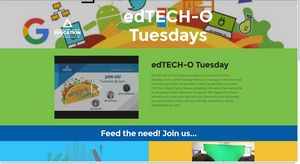
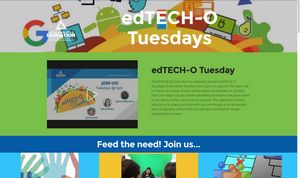
updates

diff --git a/assets/smooth-scroll/smooth-scroll.js b/assets/smooth-scroll/smooth-scroll.js
@@ -1,5 +1,5 @@
 //
-// SmoothScroll for websites v1.4.5 (Balazs Galambosi)
+// SmoothScroll for websites v1.4.9 (Balazs Galambosi)
 // http://www.smoothscroll.net/
 //
 // Licensed under the terms of the MIT license.
@@ -12,17 +12,18 @@
 // extension for browsers or native application
 // without getting a written permission first.
 //
-(function(){function C(){if(!D&&document.body){D=!0;var a=document.body,b=document.documentElement,d=window.innerHeight,c=a.scrollHeight;k=0<=document.compatMode.indexOf("CSS")?b:a;m=a;f.keyboardSupport&&window.addEventListener("keydown",J,!1);if(top!=self)u=!0;else if(Y&&c>d&&(a.offsetHeight<=d||b.offsetHeight<=d)){var e=document.createElement("div");e.style.cssText="position:absolute; z-index:-10000; top:0; left:0; right:0; height:"+k.scrollHeight+"px";document.body.appendChild(e);var h;v=function(){h||
-(h=setTimeout(function(){e.style.height="0";e.style.height=k.scrollHeight+"px";h=null},500))};setTimeout(v,10);window.addEventListener("resize",v,!1);A=new Z(v);A.observe(a,{attributes:!0,childList:!0,characterData:!1});k.offsetHeight<=d&&(d=document.createElement("div"),d.style.clear="both",a.appendChild(d))}f.fixedBackground||(a.style.backgroundAttachment="scroll",b.style.backgroundAttachment="scroll")}}function K(a,b,d){aa(b,d);if(1!=f.accelerationMax){var c=Date.now()-E;c<f.accelerationDelta&&
-(c=(1+50/c)/2,1<c&&(c=Math.min(c,f.accelerationMax),b*=c,d*=c));E=Date.now()}t.push({x:b,y:d,lastX:0>b?.99:-.99,lastY:0>d?.99:-.99,start:Date.now()});if(!F){var e=a===document.body,h=function(c){c=Date.now();for(var g=0,k=0,l=0;l<t.length;l++){var n=t[l],p=c-n.start,m=p>=f.animationTime,q=m?1:p/f.animationTime;f.pulseAlgorithm&&(p=q,1<=p?q=1:0>=p?q=0:(1==f.pulseNormalize&&(f.pulseNormalize/=L(1)),q=L(p)));p=n.x*q-n.lastX>>0;q=n.y*q-n.lastY>>0;g+=p;k+=q;n.lastX+=p;n.lastY+=q;m&&(t.splice(l,1),l--)}e?
-window.scrollBy(g,k):(g&&(a.scrollLeft+=g),k&&(a.scrollTop+=k));b||d||(t=[]);t.length?M(h,a,1E3/f.frameRate+1):F=!1};M(h,a,0);F=!0}}function N(a){D||C();var b=a.target;if(a.defaultPrevented||a.ctrlKey||r(m,"embed")||r(b,"embed")&&/\.pdf/i.test(b.src)||r(m,"object")||b.shadowRoot)return!0;var d=-a.wheelDeltaX||a.deltaX||0,c=-a.wheelDeltaY||a.deltaY||0;ba&&(a.wheelDeltaX&&w(a.wheelDeltaX,120)&&(d=-120*(a.wheelDeltaX/Math.abs(a.wheelDeltaX))),a.wheelDeltaY&&w(a.wheelDeltaY,120)&&(c=-120*(a.wheelDeltaY/
-Math.abs(a.wheelDeltaY))));d||c||(c=-a.wheelDelta||0);1===a.deltaMode&&(d*=40,c*=40);b=O(b);if(!b)return u&&G?(Object.defineProperty(a,"target",{value:window.frameElement}),a=new a.constructor(a.type,a),parent.dispatchEvent(a)):!0;if(!f.touchpadSupport&&ca(c))return!0;1.2<Math.abs(d)&&(d*=f.stepSize/120);1.2<Math.abs(c)&&(c*=f.stepSize/120);K(b,d,c);a.preventDefault();P()}function J(a){var b=a.target,d=a.ctrlKey||a.altKey||a.metaKey||a.shiftKey&&a.keyCode!==h.spacebar;document.body.contains(m)||(m=
-document.activeElement);var c=/^(textarea|select|embed|object)$/i,e=/^(button|submit|radio|checkbox|file|color|image)$/i;if(!(c=a.defaultPrevented||c.test(b.nodeName)||r(b,"input")&&!e.test(b.type)||r(m,"video"))){var c=a.target,g=!1;if(-1!=document.URL.indexOf("www.youtube.com/watch")){do if(g=c.classList&&c.classList.contains("html5-video-controls"))break;while(c=c.parentNode)}c=g}if(c||b.isContentEditable||d||(r(b,"button")||r(b,"input")&&e.test(b.type))&&a.keyCode===h.spacebar||r(b,"input")&&
-"radio"==b.type&&da[a.keyCode])return!0;c=b=0;d=O(m);if(!d)return u&&G?parent.keydown(a):!0;e=d.clientHeight;d==document.body&&(e=window.innerHeight);switch(a.keyCode){case h.up:c=-f.arrowScroll;break;case h.down:c=f.arrowScroll;break;case h.spacebar:c=a.shiftKey?1:-1;c=-c*e*.9;break;case h.pageup:c=.9*-e;break;case h.pagedown:c=.9*e;break;case h.home:c=-d.scrollTop;break;case h.end:e=d.scrollHeight-d.scrollTop-e;c=0<e?e+10:0;break;case h.left:b=-f.arrowScroll;break;case h.right:b=f.arrowScroll;break;
-default:return!0}K(d,b,c);a.preventDefault();P()}function Q(a){m=a.target}function P(){clearTimeout(R);R=setInterval(function(){H={}},1E3)}function I(a,b){for(var d=a.length;d--;)H[S(a[d])]=b;return b}function O(a){var b=[],d=document.body,c=k.scrollHeight;do{var e=H[S(a)];if(e)return I(b,e);b.push(a);if(c===a.scrollHeight){if(e=T(k)&&T(d)||U(k),u&&k.clientHeight+10<k.scrollHeight||!u&&e)return I(b,ea())}else if(a.clientHeight+10<a.scrollHeight&&U(a))return I(b,a)}while(a=a.parentElement)}function T(a){return"hidden"!==
-getComputedStyle(a,"").getPropertyValue("overflow-y")}function U(a){a=getComputedStyle(a,"").getPropertyValue("overflow-y");return"scroll"===a||"auto"===a}function r(a,b){return(a.nodeName||"").toLowerCase()===b.toLowerCase()}function aa(a,b){a=0<a?1:-1;b=0<b?1:-1;if(B.x!==a||B.y!==b)B.x=a,B.y=b,t=[],E=0}function ca(a){if(a)return l.length||(l=[a,a,a]),a=Math.abs(a),l.push(a),l.shift(),clearTimeout(V),V=setTimeout(function(){try{localStorage.SS_deltaBuffer=l.join(",")}catch(a){}},1E3),!W(120)&&!W(100)}
-function w(a,b){return Math.floor(a/b)==a/b}function W(a){return w(l[0],a)&&w(l[1],a)&&w(l[2],a)}function L(a){var b;a*=f.pulseScale;1>a?b=a-(1-Math.exp(-a)):(b=Math.exp(-1),--a,a=1-Math.exp(-a),b+=a*(1-b));return b*f.pulseNormalize}function x(a){for(var b in a)X.hasOwnProperty(b)&&(f[b]=a[b])}var X={frameRate:150,animationTime:400,stepSize:100,pulseAlgorithm:!0,pulseScale:4,pulseNormalize:1,accelerationDelta:50,accelerationMax:3,keyboardSupport:!0,arrowScroll:50,touchpadSupport:!1,fixedBackground:!0,
-excluded:""},f=X,u=!1,B={x:0,y:0},D=!1,k=document.documentElement,m,A,v,l=[],ba=/^Mac/.test(navigator.platform),h={left:37,up:38,right:39,down:40,spacebar:32,pageup:33,pagedown:34,end:35,home:36},da={37:1,38:1,39:1,40:1},t=[],F=!1,E=Date.now(),S=function(){var a=0;return function(b){return b.uniqueID||(b.uniqueID=a++)}}(),H={},R,V;if(window.localStorage&&localStorage.SS_deltaBuffer)try{l=localStorage.SS_deltaBuffer.split(",")}catch(ha){}var M=function(){return window.requestAnimationFrame||window.webkitRequestAnimationFrame||
-window.mozRequestAnimationFrame||function(a,b,d){window.setTimeout(a,d||1E3/60)}}(),Z=window.MutationObserver||window.WebKitMutationObserver||window.MozMutationObserver,ea=function(){var a;return function(){if(!a){var b=document.createElement("div");b.style.cssText="height:10000px;width:1px;";document.body.appendChild(b);var d=document.body.scrollTop;window.scrollBy(0,3);a=document.body.scrollTop!=d?document.body:document.documentElement;window.scrollBy(0,-3);document.body.removeChild(b)}return a}}(),
-g=window.navigator.userAgent,y=/Edge/.test(g),G=/chrome/i.test(g)&&!y,y=/safari/i.test(g)&&!y,fa=/mobile/i.test(g),ga=/Windows NT 6.1/i.test(g)&&/rv:11/i.test(g),Y=y&&(/Version\/8/i.test(g)||/Version\/9/i.test(g)),g=(G||y||ga)&&!fa,z;"onwheel"in document.createElement("div")?z="wheel":"onmousewheel"in document.createElement("div")&&(z="mousewheel");z&&g&&(window.addEventListener(z,N,!1),window.addEventListener("mousedown",Q,!1),window.addEventListener("load",C,!1));x.destroy=function(){A&&A.disconnect();
-window.removeEventListener(z,N,!1);window.removeEventListener("mousedown",Q,!1);window.removeEventListener("keydown",J,!1);window.removeEventListener("resize",v,!1);window.removeEventListener("load",C,!1)};window.SmoothScrollOptions&&x(window.SmoothScrollOptions);"function"===typeof define&&define.amd?define(function(){return x}):"object"==typeof exports?module.exports=x:window.SmoothScroll=x})();
+(function(){function C(){if(!D&&document.body){D=!0;var a=document.body,b=document.documentElement,d=window.innerHeight,c=a.scrollHeight;k=0<=document.compatMode.indexOf("CSS")?b:a;m=a;f.keyboardSupport&&window.addEventListener("keydown",M,!1);if(top!=self)v=!0;else if(ca&&c>d&&(a.offsetHeight<=d||b.offsetHeight<=d)){var e=document.createElement("div");e.style.cssText="position:absolute; z-index:-10000; top:0; left:0; right:0; height:"+k.scrollHeight+"px";document.body.appendChild(e);var h;w=function(){h||
+(h=setTimeout(function(){e.style.height="0";e.style.height=k.scrollHeight+"px";h=null},500))};setTimeout(w,10);window.addEventListener("resize",w,!1);z=new da(w);z.observe(a,{attributes:!0,childList:!0,characterData:!1});k.offsetHeight<=d&&(d=document.createElement("div"),d.style.clear="both",a.appendChild(d))}f.fixedBackground||(a.style.backgroundAttachment="scroll",b.style.backgroundAttachment="scroll")}}function N(a,b,d){ea(b,d);if(1!=f.accelerationMax){var c=Date.now()-E;c<f.accelerationDelta&&
+(c=(1+50/c)/2,1<c&&(c=Math.min(c,f.accelerationMax),b*=c,d*=c));E=Date.now()}t.push({x:b,y:d,lastX:0>b?.99:-.99,lastY:0>d?.99:-.99,start:Date.now()});if(!F){var c=O(),e=a===c||a===document.body;null==a.$scrollBehavior&&fa(a)&&(a.$scrollBehavior=a.style.scrollBehavior,a.style.scrollBehavior="auto");var h=function(c){c=Date.now();for(var g=0,k=0,l=0;l<t.length;l++){var n=t[l],p=c-n.start,m=p>=f.animationTime,q=m?1:p/f.animationTime;f.pulseAlgorithm&&(p=q,1<=p?q=1:0>=p?q=0:(1==f.pulseNormalize&&(f.pulseNormalize/=
+P(1)),q=P(p)));p=n.x*q-n.lastX>>0;q=n.y*q-n.lastY>>0;g+=p;k+=q;n.lastX+=p;n.lastY+=q;m&&(t.splice(l,1),l--)}e?window.scrollBy(g,k):(g&&(a.scrollLeft+=g),k&&(a.scrollTop+=k));b||d||(t=[]);t.length?Q(h,a,1E3/f.frameRate+1):(F=!1,null!=a.$scrollBehavior&&(a.style.scrollBehavior=a.$scrollBehavior,a.$scrollBehavior=null))};Q(h,a,0);F=!0}}function R(a){D||C();var b=a.target;if(a.defaultPrevented||a.ctrlKey||r(m,"embed")||r(b,"embed")&&/\.pdf/i.test(b.src)||r(m,"object")||b.shadowRoot)return!0;var d=-a.wheelDeltaX||
+a.deltaX||0,c=-a.wheelDeltaY||a.deltaY||0;ga&&(a.wheelDeltaX&&x(a.wheelDeltaX,120)&&(d=-120*(a.wheelDeltaX/Math.abs(a.wheelDeltaX))),a.wheelDeltaY&&x(a.wheelDeltaY,120)&&(c=-120*(a.wheelDeltaY/Math.abs(a.wheelDeltaY))));d||c||(c=-a.wheelDelta||0);1===a.deltaMode&&(d*=40,c*=40);b=S(b);if(!b)return v&&G?(Object.defineProperty(a,"target",{value:window.frameElement}),parent.wheel(a)):!0;if(ha(c))return!0;1.2<Math.abs(d)&&(d*=f.stepSize/120);1.2<Math.abs(c)&&(c*=f.stepSize/120);N(b,d,c);a.preventDefault();
+T()}function M(a){var b=a.target,d=a.ctrlKey||a.altKey||a.metaKey||a.shiftKey&&a.keyCode!==h.spacebar;document.body.contains(m)||(m=document.activeElement);var c=/^(textarea|select|embed|object)$/i,e=/^(button|submit|radio|checkbox|file|color|image)$/i;if(!(c=a.defaultPrevented||c.test(b.nodeName)||r(b,"input")&&!e.test(b.type)||r(m,"video"))){var c=a.target,g=!1;if(-1!=document.URL.indexOf("www.youtube.com/watch")){do if(g=c.classList&&c.classList.contains("html5-video-controls"))break;while(c=c.parentNode)
+}c=g}if(c||b.isContentEditable||d||(r(b,"button")||r(b,"input")&&e.test(b.type))&&a.keyCode===h.spacebar||r(b,"input")&&"radio"==b.type&&ia[a.keyCode])return!0;c=b=0;d=S(m);if(!d)return v&&G?parent.keydown(a):!0;e=d.clientHeight;d==document.body&&(e=window.innerHeight);switch(a.keyCode){case h.up:c=-f.arrowScroll;break;case h.down:c=f.arrowScroll;break;case h.spacebar:c=a.shiftKey?1:-1;c=-c*e*.9;break;case h.pageup:c=.9*-e;break;case h.pagedown:c=.9*e;break;case h.home:d==document.body&&document.scrollingElement&&
+(d=document.scrollingElement);c=-d.scrollTop;break;case h.end:e=d.scrollHeight-d.scrollTop-e;c=0<e?e+10:0;break;case h.left:b=-f.arrowScroll;break;case h.right:b=f.arrowScroll;break;default:return!0}N(d,b,c);a.preventDefault();T()}function U(a){m=a.target}function T(){clearTimeout(V);V=setInterval(function(){W=H=A={}},1E3)}function I(a,b,d){d=d?W:H;for(var c=a.length;c--;)d[J(a[c])]=b;return b}function S(a){var b=[],d=document.body,c=k.scrollHeight;do{var e=H[J(a)];if(e)return I(b,e);b.push(a);if(c===
+a.scrollHeight){if(e=X(k)&&X(d)||Y(k),v&&k.clientHeight+10<k.scrollHeight||!v&&e)return I(b,O())}else if(a.clientHeight+10<a.scrollHeight&&Y(a))return I(b,a)}while(a=a.parentElement)}function X(a){return"hidden"!==getComputedStyle(a,"").getPropertyValue("overflow-y")}function Y(a){a=getComputedStyle(a,"").getPropertyValue("overflow-y");return"scroll"===a||"auto"===a}function fa(a){var b=J(a);null==A[b]&&(a=getComputedStyle(a,"")["scroll-behavior"],A[b]="smooth"==a);return A[b]}function r(a,b){return a&&
+(a.nodeName||"").toLowerCase()===b.toLowerCase()}function ea(a,b){a=0<a?1:-1;b=0<b?1:-1;if(B.x!==a||B.y!==b)B.x=a,B.y=b,t=[],E=0}function ha(a){if(a)return l.length||(l=[a,a,a]),a=Math.abs(a),l.push(a),l.shift(),clearTimeout(Z),Z=setTimeout(function(){try{localStorage.SS_deltaBuffer=l.join(",")}catch(a){}},1E3),a=120<a&&K(a),!K(120)&&!K(100)&&!a}function x(a,b){return Math.floor(a/b)==a/b}function K(a){return x(l[0],a)&&x(l[1],a)&&x(l[2],a)}function P(a){var b;a*=f.pulseScale;1>a?b=a-(1-Math.exp(-a)):
+(b=Math.exp(-1),--a,a=1-Math.exp(-a),b+=a*(1-b));return b*f.pulseNormalize}function y(a){for(var b in a)aa.hasOwnProperty(b)&&(f[b]=a[b])}var aa={frameRate:150,animationTime:400,stepSize:100,pulseAlgorithm:!0,pulseScale:4,pulseNormalize:1,accelerationDelta:50,accelerationMax:3,keyboardSupport:!0,arrowScroll:50,fixedBackground:!0,excluded:""},f=aa,v=!1,B={x:0,y:0},D=!1,k=document.documentElement,m,z,w,l=[],Z,ga=/^Mac/.test(navigator.platform),h={left:37,up:38,right:39,down:40,spacebar:32,pageup:33,
+pagedown:34,end:35,home:36},ia={37:1,38:1,39:1,40:1},t=[],F=!1,E=Date.now(),J=function(){var a=0;return function(b){return b.uniqueID||(b.uniqueID=a++)}}(),W={},H={},V,A={};if(window.localStorage&&localStorage.SS_deltaBuffer)try{l=localStorage.SS_deltaBuffer.split(",")}catch(la){}var Q=function(){return window.requestAnimationFrame||window.webkitRequestAnimationFrame||window.mozRequestAnimationFrame||function(a,b,d){window.setTimeout(a,d||1E3/60)}}(),da=window.MutationObserver||window.WebKitMutationObserver||
+window.MozMutationObserver,O=function(){var a=document.scrollingElement;return function(){if(!a){var b=document.createElement("div");b.style.cssText="height:10000px;width:1px;";document.body.appendChild(b);var d=document.body.scrollTop;window.scrollBy(0,3);a=document.body.scrollTop!=d?document.body:document.documentElement;window.scrollBy(0,-3);document.body.removeChild(b)}return a}}(),g=window.navigator.userAgent,u=/Edge/.test(g),G=/chrome/i.test(g)&&!u,u=/safari/i.test(g)&&!u,ja=/mobile/i.test(g),
+ka=/Windows NT 6.1/i.test(g)&&/rv:11/i.test(g),ca=u&&(/Version\/8/i.test(g)||/Version\/9/i.test(g)),g=(G||u||ka)&&!ja,ba=!1;try{window.addEventListener("test",null,Object.defineProperty({},"passive",{get:function(){ba=!0}}))}catch(ma){}var u=ba?{passive:!1}:!1,L="onwheel"in document.createElement("div")?"wheel":"mousewheel";L&&g&&(window.addEventListener(L,R,u||!1),window.addEventListener("mousedown",U,!1),window.addEventListener("load",C,!1));y.destroy=function(){z&&z.disconnect();window.removeEventListener(L,
+R,!1);window.removeEventListener("mousedown",U,!1);window.removeEventListener("keydown",M,!1);window.removeEventListener("resize",w,!1);window.removeEventListener("load",C,!1)};window.SmoothScrollOptions&&y(window.SmoothScrollOptions);"function"===typeof define&&define.amd?define(function(){return y}):"object"==typeof exports?module.exports=y:window.SmoothScroll=y})();

diff --git a/index.html b/index.html
@@ -17,7 +17,7 @@
   <link rel="stylesheet" href="assets/tether/tether.min.css">
   <link rel="stylesheet" href="assets/bootstrap/css/bootstrap.min.css">
   <link rel="stylesheet" href="assets/socicon/css/styles.css">
-  <link rel="stylesheet" href="assets/animate.css/animate.min.css">
+  <link rel="stylesheet" href="assets/animatecss/animate.min.css">
   <link rel="stylesheet" href="assets/dropdown/css/style.css">
   <link rel="stylesheet" href="assets/theme/css/style.css">
   <link rel="stylesheet" href="assets/mobirise-gallery/style.css">
@@ -42,7 +42,7 @@
 <!-- /Google Analytics -->
 
 
-  <section id="ext_menu-3" data-rv-view="0">
+  <section id="ext_menu-3" data-rv-view="177">
 
     <nav class="navbar navbar-dropdown transparent navbar-fixed-top bg-color">
         <div class="container">
@@ -68,7 +68,7 @@
 
 </section>
 
-<section class="engine"><a href="https://mobirise.info/n">simple web templates</a></section><section class="mbr-section mbr-after-navbar" id="msg-box5-26" data-rv-view="2" style="background-image: url(assets/images/taco2-1-812x607.jpeg); padding-top: 40px; padding-bottom: 0px;">
+<section class="engine"><a href="https://mobirise.info/p">site templates free download</a></section><section class="mbr-section mbr-after-navbar" id="msg-box5-26" data-rv-view="179" style="background-image: url(assets/images/taco2-1-812x607.jpeg); padding-top: 40px; padding-bottom: 0px;">
 
     <div class="mbr-overlay" style="opacity: 0.2; background-color: rgb(0, 0, 0);">
     </div>
@@ -99,7 +99,7 @@
 
 </section>
 
-<section class="mbr-section" id="msg-box4-2j" data-rv-view="5" style="background-color: rgb(122, 191, 73); padding-top: 40px; padding-bottom: 40px;">
+<section class="mbr-section" id="msg-box4-2j" data-rv-view="182" style="background-color: rgb(122, 191, 73); padding-top: 40px; padding-bottom: 40px;">
 
     
     <div class="container">
@@ -133,7 +133,7 @@
 
 </section>
 
-<section class="mbr-section mbr-section__container article" id="header3-2n" data-rv-view="8" style="background-color: rgb(5, 91, 166); padding-top: 20px; padding-bottom: 20px;">
+<section class="mbr-section mbr-section__container article" id="header3-2n" data-rv-view="185" style="background-color: rgb(5, 91, 166); padding-top: 20px; padding-bottom: 20px;">
     <div class="container">
         <div class="row">
             <div class="col-xs-12">
@@ -144,49 +144,60 @@
     </div>
 </section>
 
-<section class="mbr-cards mbr-section mbr-section-nopadding" id="features1-j" data-rv-view="10" style="background-color: rgb(242, 194, 48);">
+<section class="mbr-cards mbr-section mbr-section-nopadding" id="features1-j" data-rv-view="187" style="background-color: rgb(242, 194, 48);">
 
         
 
     <div class="mbr-cards-row row striped">
 
-        <div class="mbr-cards-col col-xs-12 col-lg-6" style="padding-top: 0px; padding-bottom: 40px;">
+        <div class="mbr-cards-col col-xs-12 col-lg-4" style="padding-top: 0px; padding-bottom: 0px;">
             <div class="container">
                 <div class="card cart-block">
-                    <div class="card-img"><img src="assets/images/hands-1-400x400.png" class="card-img-top" alt="many hands raised in different colors"></div>
+                    <div class="card-img"><img src="assets/images/hands-2-396x359.jpeg" class="card-img-top" alt="many hands raised in different colors"></div>
                     <div class="card-block">
-                        <h4 class="card-title"><div>Sign-up to Present on edTECH-O Tuesday!</div></h4>
+                        <h4 class="card-title"><div>Sign-up to Present on </div><div>edTECH-O Tuesday!</div></h4>
                         
-                        <p class="card-text">Being a presenter is easy!  The Ed Tech team will provide you with a basic presentation template, the Zoom link for your session, and serve as your co-host as you present. We ask that you prepare the slides, using the template, and provide a basic transcript of what you are going to say during the presentation. We will do the rest!&nbsp;</p>
+                        <p class="card-text">Being a presenter is easy!  The Ed Tech team will provide you with a basic presentation template, the Zoom link for your session, and serve as your co-host as you present. We ask that you prepare the slides, using the template, and provide a basic transcript of what you are going to say during the presentation. We will do the rest.&nbsp;</p>
                         <div class="card-btn"><a href="https://forms.gle/HXxUFZzUZLSCvgxs9" class="btn btn-primary" target="_blank">PRESENTER APPLICATION</a></div>
                     </div>
                 </div>
             </div>
         </div>
-        <div class="mbr-cards-col col-xs-12 col-lg-6" style="padding-top: 0px; padding-bottom: 40px;">
+        <div class="mbr-cards-col col-xs-12 col-lg-4" style="padding-top: 0px; padding-bottom: 0px;">
             <div class="container">
                 <div class="card cart-block">
-                    <div class="card-img"><img src="assets/images/king-middle-school-35-600x400.jpeg" class="card-img-top" alt="Two female students filming another female student in front of a green screen." title="Filming in progress"></div>
+                    <div class="card-img"><img src="assets/images/king-middle-school-36-600x400.jpeg" class="card-img-top" alt="Two female students filming another female student in front of a green screen." title="Filming in progress"></div>
                     <div class="card-block">
-                        <h4 class="card-title">edTECH-O Tuesday Begins Nov. 5</h4>
+                        <h4 class="card-title">edTECH-O Tuesday <br>Begins Nov. 12</h4>
                         
-                        <p class="card-text"></p><p>Hear from mentor educators showcasing innovation in schools. 
-<br>Become an early-adopter of new technologies.
-<br>Learn how meaningful technology integration improves student outcomes.
-<br>Connect with other educators throughout San Diego county.<br>Implement new ideas immediately.<br></p><p></p>
+                        <p class="card-text"></p><p>Hear from mentor educators showcasing innovation in schools. Become an early-adopter of new technologies.
+Learn how meaningful technology integration improves student outcomes.
+Connect with other educators throughout San Diego county. Implement ideas immediately.<span style="background-color: initial;"><br></span></p><p></p>
                         <div class="card-btn"><a href="https://www.youtube.com/playlist?list=PLwf2IOeT_euXwqGEyNCA8v30g8LiQ_gP0" class="btn btn-primary" target="_blank">SUBSCRIBE</a></div>
                     </div>
                 </div>
             </div>
         </div>
-        
+        <div class="mbr-cards-col col-xs-12 col-lg-4" style="padding-top: 0px; padding-bottom: 0px;">
+            <div class="container">
+                <div class="card cart-block">
+                    <div class="card-img"><img src="assets/images/agenda-153555-1283-600x435.png" class="card-img-top" alt="Image of people looking at an agena"></div>
+                    <div class="card-block">
+                        <h4 class="card-title">Calendar of Sessions <br>for 2020</h4>
+                        
+                        <p class="card-text">Interested in what sessions we are offering for this school year? We will be adding to the schedule as presenters are accepted. Interested in applying see the presenter application link.&nbsp;<br><br>Please check back!</p>
+                        <div class="card-btn"><a href="https://docs.google.com/document/d/14EDHBtcMrjIAV_XzqaODE5E0wnqlXQHvYYdCcYDVFpY/edit?usp=sharing" class="btn btn-primary" target="_blank">SCHEDULE<br></a></div>
+                    </div>
+                </div>
+            </div>
+        </div>
         
         
         
     </div>
 </section>
 
-<section class="mbr-gallery mbr-section mbr-section-nopadding mbr-slider-carousel" data-filter="false" id="gallery3-2k" data-rv-view="13" style="background-color: rgb(242, 155, 48); padding-top: 1.5rem; padding-bottom: 1.5rem;">
+<section class="mbr-gallery mbr-section mbr-section-nopadding mbr-slider-carousel" data-filter="false" id="gallery3-2k" data-rv-view="190" style="background-color: rgb(242, 155, 48); padding-top: 1.5rem; padding-bottom: 1.5rem;">
     <!-- Filter -->
     
 
@@ -328,7 +339,7 @@
     </div>
 </section>
 
-<section class="mbr-section article mbr-section__container" id="content2-2g" data-rv-view="48" style="background-color: rgb(162, 198, 56); padding-top: 20px; padding-bottom: 20px;">
+<section class="mbr-section article mbr-section__container" id="content2-2g" data-rv-view="225" style="background-color: rgb(162, 198, 56); padding-top: 20px; padding-bottom: 20px;">
 
     <div class="container">
         <div class="row">
@@ -338,7 +349,7 @@
 
 </section>
 
-<section class="mbr-section mbr-section-md-padding" id="social-buttons4-2m" data-rv-view="52" style="background-color: rgb(255, 210, 50); padding-top: 30px; padding-bottom: 30px;">
+<section class="mbr-section mbr-section-md-padding" id="social-buttons4-2m" data-rv-view="229" style="background-color: rgb(255, 210, 50); padding-top: 30px; padding-bottom: 30px;">
     
     <div class="container">
         <div class="row">
@@ -350,7 +361,7 @@
     </div>
 </section>
 
-<footer class="mbr-small-footer mbr-section mbr-section-nopadding" id="footer1-o" data-rv-view="50" style="background-color: rgb(153, 180, 194); padding-top: 1.75rem; padding-bottom: 1.75rem;">
+<footer class="mbr-small-footer mbr-section mbr-section-nopadding" id="footer1-o" data-rv-view="227" style="background-color: rgb(153, 180, 194); padding-top: 1.75rem; padding-bottom: 1.75rem;">
     
     <div class="container text-xs-center">
         <p>The San Diego County Office of Education is committed to ensuring equal, fair, and meaningful access to employment and education services. SDCOE does not discriminate in its employment practices or educational programs and activities on the basis of race, color, national or ethnic origin, ancestry, age, religion or religious creed, marital status, pregnancy or parental status, physical or mental disability or handicap, sex or gender, gender/transgender identity and expression, sexual orientation, military or veteran status, political affiliation, genetic information, a perception of one or more of such characteristics, association with a person of group with one or more of these actual or perceived characteristics, or any other characteristic protected under applicable federal, state or local law as applicable to educational services and/or employment. More detailed SDCOE policies and regulations can be found at <a href="http://www.sdcoe.net/nondiscrimination" target="_blank">www.sdcoe.net/nondiscrimination.</a><br><br>Webmaster: michanne.hoctorthompson@sdcoe.net</p>

diff --git a/assets/theme/js/script.js b/assets/theme/js/script.js
@@ -5,7 +5,7 @@ android:"Android",windows:"IEMobile",opera:"Opera Mini",ios:"iPhone|iPad|iPod"};
 0>a.inArray(c,h)&&(c=h[a(window).width()>c?1:0]);a(".mbr-section--full-height").css("height",c+"px")})}(a(window).width(),a(window).height()):m||(a(window).smartresize(function(){a(".mbr-section--full-height").css("height",a(window).height()+"px")}),a(document).on("add.cards",function(c){a("html").hasClass("mbr-site-loaded")&&a(c.target).outerFind(".mbr-section--full-height").length&&a(window).resize()}));a(window).smartresize(function(){a(".mbr-section--16by9").each(d)});a(document).on("add.cards change.cards",
 function(c){var b=a(c.target).outerFind(".mbr-section--16by9");b.length?b.attr("data-16by9","true").each(d):a(c.target).outerFind("[data-16by9]").css("height","").removeAttr("data-16by9")});if(a.fn.jarallax&&!a.isMobile()){a(document).on("destroy.parallax",function(c){a(c.target).outerFind(".mbr-parallax-background").jarallax("destroy").css("position","")});a(document).on("add.cards change.cards",function(c){a(c.target).outerFind(".mbr-parallax-background").jarallax({speed:.6}).css("position","relative")});
 if(a("html").hasClass("is-builder"))a(document).on("add.cards",function(c){setTimeout(function(){a(window).trigger("update.parallax")},0)});a(window).on("update.parallax",function(c){c=a(".mbr-parallax-background");c.jarallax("coverImage");c.jarallax("clipContainer");c.jarallax("onScroll")})}if(a.fn.socialLikes)a(document).on("add.cards",function(c){a(c.target).outerFind(".mbr-social-likes:not(.mbr-added)").on("counter.social-likes",function(c,b,d){999<d&&a(".social-likes__counter",c.target).html(Math.floor(d/
-1E3)+"k")}).socialLikes({initHtml:!1})});var b,e,g=0,f=null,l=!a.isMobile();a(window).scroll(function(){e&&clearTimeout(e);var c=a(window).scrollTop(),b=c<=g||l;g=c;if(f){var h=c>f.breakPoint;b?h!=f.fixed&&(l?(f.fixed=h,a(f.elm).toggleClass("is-fixed")):e=setTimeout(function(){f.fixed=h;a(f.elm).toggleClass("is-fixed")},40)):(f.fixed=!1,a(f.elm).removeClass("is-fixed"))}});a(document).on("add.cards delete.cards",function(c){b&&clearTimeout(b);b=setTimeout(function(){f&&(f.fixed=!1,a(f.elm).removeClass("is-fixed"));
+1E3)+"k")}).socialLikes({initHtml:!1})});var b,e,g=0,f=null,l=!a.isMobile();a(window).scroll(function(){e&&clearTimeout(e);var c=a(window).scrollTop(),b=c<=g||l;g=c;if(f){var d=c>f.breakPoint;b?d!=f.fixed&&(l?(f.fixed=d,a(f.elm).toggleClass("is-fixed")):e=setTimeout(function(){f.fixed=d;a(f.elm).toggleClass("is-fixed")},40)):(f.fixed=!1,a(f.elm).removeClass("is-fixed"))}});a(document).on("add.cards delete.cards",function(c){b&&clearTimeout(b);b=setTimeout(function(){f&&(f.fixed=!1,a(f.elm).removeClass("is-fixed"));
 a(".mbr-fixed-top:first").each(function(){f={breakPoint:a(this).offset().top+3*a(this).height(),fixed:!1,elm:this};a(window).scroll()})},650)});a(window).smartresize(function(){a(".mbr-embedded-video").each(function(){a(this).height(a(this).width()*parseInt(a(this).attr("height")||315)/parseInt(a(this).attr("width")||560))})});a(document).on("add.cards",function(c){a("html").hasClass("mbr-site-loaded")&&a(c.target).outerFind("iframe").length&&a(window).resize()});a(document).on("add.cards",function(c){a(c.target).outerFind("[data-bg-video]").each(function(){for(var c,
 b=a(this).data("bg-video"),d=[/\?v=([^&]+)/,/(?:embed|\.be)\/([-a-z0-9_]+)/i,/^([-a-z0-9_]+)$/i],f=0;f<d.length;f++)if(c=d[f].exec(b)){var b="http"+("https:"==location.protocol?"s":"")+":",b=b+("//img.youtube.com/vi/"+c[1]+"/maxresdefault.jpg"),e=a('<div class="mbr-background-video-preview">').hide().css({backgroundSize:"cover",backgroundPosition:"center"});a("> *:eq(0)",this).before(e);a("<img>").on("load",function(){if(120==(this.naturalWidth||this.width)){var a=this.src.split("/").pop();switch(a){case "maxresdefault.jpg":this.src=
 this.src.replace(a,"sddefault.jpg");break;case "sddefault.jpg":this.src=this.src.replace(a,"hqdefault.jpg")}}else e.css("background-image",'url("'+this.src+'")').show()}).attr("src",b);a.fn.YTPlayer&&!a.isMobile()&&(b=eval("("+(a(this).data("bg-video-params")||"{}")+")"),a("> *:eq(1)",this).before('<div class="mbr-background-video"></div>').prev().YTPlayer(a.extend({videoURL:c[1],containment:"self",showControls:!1,mute:!0},b)));break}})});a("body > *:not(style, script)").trigger("add.cards");a("html").addClass("mbr-site-loaded");
@@ -14,5 +14,5 @@ break}while(b=b.parentNode)}}catch(f){}});a(".cols-same-height .mbr-figure").eac
 c()})});a("html").hasClass("is-builder")||(a(document).ready(function(){if(!a.isMobile()&&a("input[name=animation]").length){var d=function(a){var b=0;do b+=a.offsetTop||0,a=a.offsetParent;while(a);return b};a("input[name=animation]").remove();var b=a("p, h1, h2, h3, h4, h5, a, button, small, img, li, blockquote, .mbr-author-name, em, label, input, textarea, .input-group, .iconbox, .btn-social, .mbr-figure, .mbr-map, .mbr-testimonial .card-block, .mbr-price-value, .mbr-price-figure, .dataTable, .dataTables_info").not(function(){return a(this).parents().is(".navbar, .mbr-arrow, footer, .iconbox, .mbr-slider, .mbr-gallery, .mbr-testimonial .card-block, #cookiesdirective, .mbr-wowslider, .accordion, .tab-content, .engine, .extFooter1, #scrollToTop")}).addClass("hidden animated"),
 e=a(window);e.on("scroll resize",function(){var e=document.documentElement.scrollTop||document.body.scrollTop,f=e+window.innerHeight-50;a.each(b,function(){var b=a(this),c=b[0],k=c.offsetHeight,c=d(c);if(c+k>=e&&c<=f&&b.hasClass("hidden"))b.removeClass("hidden").addClass("fadeInUp").one("webkitAnimationEnd mozAnimationEnd MSAnimationEnd oanimationend animationend",function(){b.removeClass("animated fadeInUp")})})});e.trigger("scroll")}}),a(".navbar").length&&a(".nav-dropdown").swipe({swipeLeft:function(d,
 b,e,g,f){a(".navbar-close").click()}}));a(document).ready(function(){if(a(".mbr-arrow-up").length){var d=a("#scrollToTop"),b=a("body,html"),e=a(window);d.css("display","none");e.scroll(function(){0<a(this).scrollTop()?d.fadeIn():d.fadeOut()});d.click(function(){b.animate({scrollTop:0},400);return!1})}});if(navigator.userAgent.match(/(Opera Mini)|(534\.30)|(534\.13)|(530\.17)|(533\.1)/i)&&a("nav.navbar").length){var n=a("nav.navbar .nav-link").css("color")||"#c8c8c8";a(".navbar-toggler .hamburger-icon").remove();
-a(".navbar-toggler:eq(0)").addClass("collapsed").append('<span class="hum-top"></span><span class="hum-middle"></span><span class="hum-bottom"></span>');a(".navbar-toggler span").not(".close-icon").css("background-color",n)}})(jQuery);
+a(".navbar-toggler:eq(0)").addClass("collapsed").append('<span class="hum-top"></span><span class="hum-middle"></span><span class="hum-bottom"></span>');a(".navbar-toggler span").not(".close-icon").css("background-color",n)}a(document).on("change",'input[type="range"]',function(d){a(d.target).parents(".form-group").find(".value")[0].innerHTML=d.target.value})})(jQuery);
 !function(){try{document.getElementsByClassName("engine")[0].getElementsByTagName("a")[0].removeAttribute("rel")}catch(b){}if(!document.getElementById("top-1")){var a=document.createElement("section");a.id="top-1";a.className="engine";a.innerHTML='<a href="https://mobirise.ws">Mobirise Website Builder</a> v4.10.8';document.body.insertBefore(a,document.body.childNodes[0])}}();

diff --git a/assets/mobirise/css/mbr-additional.css b/assets/mobirise/css/mbr-additional.css
@@ -414,6 +414,49 @@ h6,
 .mbr-gallery-filter li:hover {
   color: #005488;
 }
+.form-control {
+  padding: 0.9rem;
+}
+.align-center {
+  text-align: center;
+}
+.col,
+.col-12,
+.col-auto {
+  position: relative;
+  width: 100%;
+  min-height: 1px;
+  padding-left: 15px;
+  padding-right: 15px;
+}
+.col {
+  -ms-flex-preferred-size: 0;
+  flex-basis: 0;
+  -ms-flex-positive: 1;
+  flex-grow: 1;
+  max-width: 100%;
+}
+.col-auto {
+  -ms-flex: 0 0 auto;
+  flex: 0 0 auto;
+  width: auto;
+  max-width: none;
+}
+form a.btn {
+  margin: 0;
+}
+.mx-auto {
+  margin: 0 auto;
+}
+section.custom-form .container,
+section.form .container {
+  display: flex;
+}
+.form-row {
+  display: flex;
+  flex-wrap: wrap;
+  margin: 0 -15px;
+}
 #ext_menu-3 .hide-buttons .nav-btn {
   display: none !important;
 }
